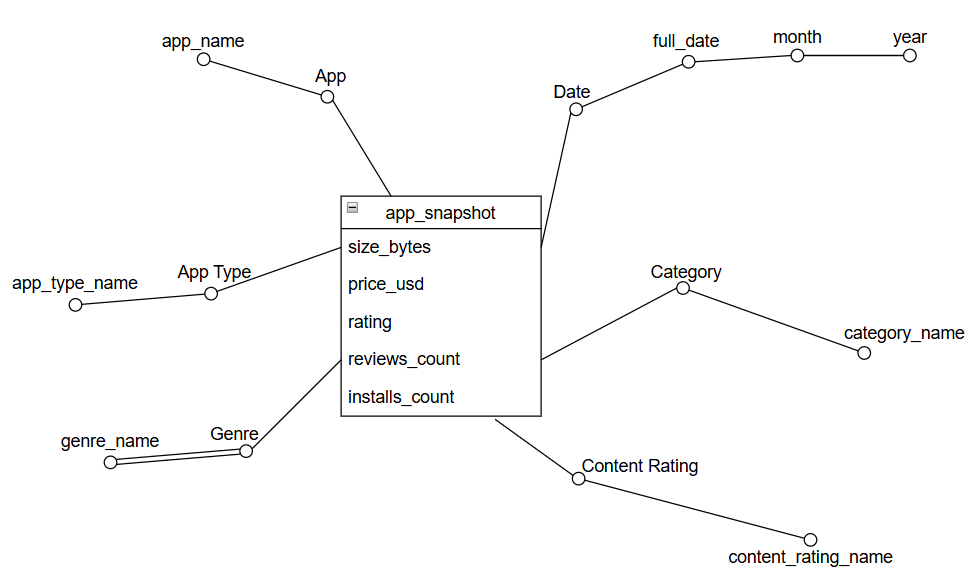
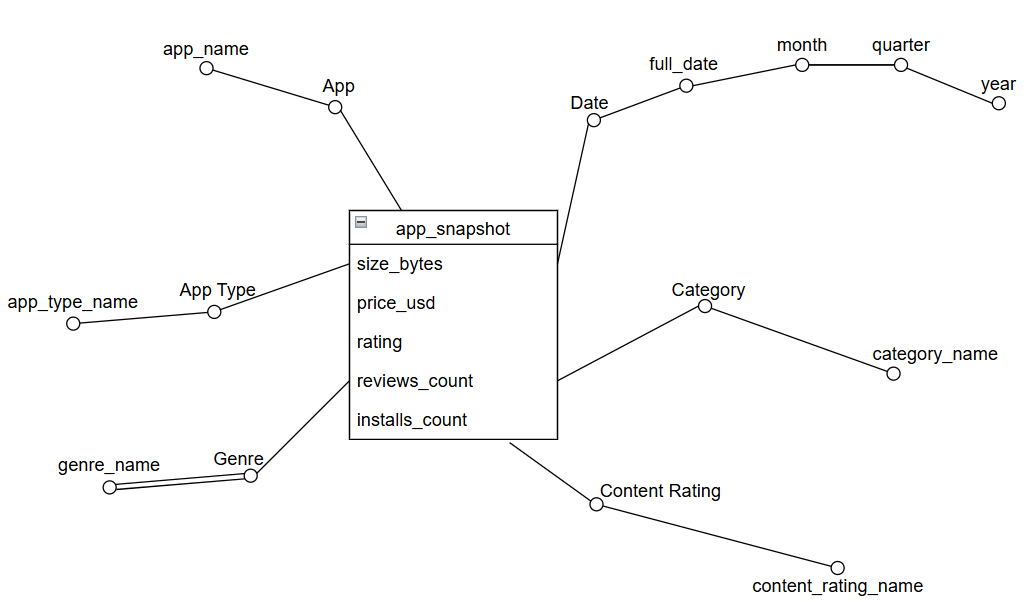
Update README.md

diff --git a/reports/phase1_phase2_report.tex b/reports/phase1_phase2_report.tex
@@ -14,14 +14,16 @@
 \usepackage{float}
 \usepackage{amsmath}
 \usepackage{caption}
-
-\hypersetup{
-    colorlinks=true,
-    linkcolor=black,
-    urlcolor=blue,
-    citecolor=black
-}
-
+\usepackage[colorlinks=true,
+            linkcolor=blue,
+            citecolor=blue,
+            urlcolor=blue]{hyperref}
+% \hypersetup{
+%     colorlinks=true,
+%     linkcolor=black,
+%     urlcolor=blue,
+%     citecolor=black
+% }
 \captionsetup{font=small}
 \renewcommand{\arraystretch}{1.15}
 
@@ -34,6 +36,8 @@
 
 \begin{document}
 \maketitle
+
+GitHub: \url{https://github.com/quangdangnhat/__DW__googleplaystore__}
 
 \section{Introduction}
 This report presents the first two phases of the Google Play Store data warehouse project. Phase 1 focuses on the conceptual and logical design of the data mart. Starting from the reconciled relational schema, we identify the fact of interest, build and edit the attribute tree, define dimensions and measures, derive the Dimensional Fact Model (DFM) schema, and translate the conceptual schema into a logical star schema for ROLAP analysis.
@@ -63,7 +67,7 @@ The goal of the data mart is to support exploratory and aggregate analysis of th
     \item how genre-based analyses can be performed despite the many-to-many relationship with app snapshots.
 \end{itemize}
 
-These requirements motivate the choice of a snapshot-oriented fact and a star schema suitable for OLAP-style aggregation and slicing.
+These requirements motivate the choice of a snapshot-oriented fact and a star schema suitable for OLAP-style aggregation and slicing. These requirements also support the Phase 3 visualization story, which investigates whether Google Play Store reach is driven more by perfect ratings or by a combination of good-enough quality, free access, category position, and recent updates.
 
 \section{Reconciled Source Schema and Data-Driven Design Approach}
 
@@ -145,11 +149,11 @@ The technical identifiers of related tables are replaced by business dimensions 
 \end{itemize}
 
 \paragraph{Time dimension.}
-The business attribute \texttt{last\_updated\_date} is transformed into the temporal dimension \texttt{Date}. The day-level member is the full calendar date, which can be rolled up to month and year:
+The business attribute \texttt{last\_updated\_date} is transformed into the temporal dimension \texttt{Date}. The day-level member is the full calendar date, which can be rolled up to month, quarter and year:
 \[
-\texttt{full\_date} \rightarrow \texttt{month} \rightarrow \texttt{year}
+\texttt{full\_date} \rightarrow \texttt{month} \rightarrow \texttt{quarter} \rightarrow \texttt{year}
 \]
-In the logical schema, the attribute \texttt{day} is stored as the day-of-month descriptor of \texttt{full\_date}; it is not interpreted as an independent determinant of month and year.
+In the logical schema, the attribute \texttt{day} is stored as the day-of-month descriptor of \texttt{full\_date}; it is not interpreted as an independent determinant of month and year. The quarter level is included to support OLAP roll-up and drill-down operations in the Phase 3 dashboards.
 
 \paragraph{Advanced construct.}
 The association with \texttt{Genre} is reintroduced at the conceptual level as a multiple arc. This modeling choice is required because the reconciled schema shows that the same app snapshot may be associated with more than one genre.
@@ -185,7 +189,7 @@ The final conceptual schema is centered on the fact \texttt{APP\_SNAPSHOT}. The 
     \item \texttt{Category} $\rightarrow$ \texttt{category\_name}
     \item \texttt{App Type} $\rightarrow$ \texttt{app\_type\_name}
     \item \texttt{Content Rating} $\rightarrow$ \texttt{content\_rating\_name}
-    \item \texttt{Date}: \texttt{full\_date} $\rightarrow$ \texttt{month} $\rightarrow$ \texttt{year}; the logical attribute \texttt{day} represents the day of month
+    \item \texttt{Date}: \texttt{full\_date} $\rightarrow$ \texttt{month}  $\rightarrow$ \texttt{quarter} $\rightarrow$ \texttt{year}; the logical attribute \texttt{day} represents the day of month
 \end{itemize}
 
 The measures are \texttt{rating}, \texttt{reviews\_count}, \texttt{installs\_count}, \texttt{price\_usd}, and \texttt{size\_bytes}.
@@ -296,6 +300,7 @@ Table~\ref{tab:measure_glossary} provides a glossary of the measures used in the
     \centering
     \includegraphics[width=0.9\textwidth]{./figures/starSchema.png}
     \caption{Implemented data warehouse star schema in Supabase PostgreSQL. The schema extends the logical star schema with data quality flags and a weighted bridge table for the many-to-many relationship with Genre.}
+
     \label{fig:logical_schema}
 \end{figure}
 
@@ -527,7 +532,7 @@ The data warehouse therefore preserves the clean-layer grain, maintains referent
 \subsection{Analysis Views for OLAP and BI}
 To support correct analysis and reduce the risk of wrong aggregations, several views are created in the data warehouse schema. The most important one is \texttt{dw.v\_genre\_fractional\_analysis}, which exposes weighted measures such as \texttt{weighted\_reviews\_count}, \texttt{weighted\_installs\_count}, and \texttt{weighted\_snapshot\_count}. These fields should be used when aggregating by \texttt{Genre}.
 
-The view \texttt{dw.v\_genre\_membership\_analysis} supports tag-based analysis, where one snapshot may legitimately be counted under more than one genre. In that case, totals across genres are not expected to match the total number of snapshots. This distinction is explicitly documented to prevent double counting in later dashboards.
+The view \texttt{dw.v\_genre\_membership\_analysis} supports tag-based analysis, where one snapshot may legitimately be counted under more than one genre. In that case, totals across genres are not expected to match the total number of snapshots. This distinction is explicitly documented to prevent double counting in later dashboards. For Phase 3, the main DW analysis views are exported as BI-ready CSV files for Tableau Public, including \texttt{v\_fact\_app\_snapshot\_enriched\_rows.csv} and \texttt{v\_genre\_weighted\_kpis\_rows.csv}. The Tableau genre dashboard uses the exported \texttt{v\_genre\_weighted\_kpis\_rows.csv} file, derived from the weighted genre KPI view, to avoid double-counting multi-genre app snapshots.
 
 
 \section{Final Result of Phase 1 and Phase 2}

diff --git a/README.md b/README.md
@@ -5,17 +5,20 @@
 
 
 > Transforming Google Play Store raw data into a verified, auditable, OLAP-ready data warehouse.
+> Repository scope: this repository contains the database design, SQL implementation,
+> data quality, cleaning, audit, ETL, and verification artifacts for Phase 1 and Phase 2.
+> Phase 3 Tableau dashboards and presentation materials are maintained separately.
 
 This project builds a data warehouse for the Google Play Store dataset. It starts from the original CSV, loads it into a raw landing table, transforms it into a reconciled PostgreSQL schema, performs baseline data quality assessment, creates a conservative cleaning and audit layer, and finally loads a dimensional star schema for OLAP-style analysis.
 
 The analytical grain is **one app snapshot**: one row in `reconciled.app_snapshot` / `dw.fact_app_snapshot` represents one loaded Google Play Store source row for one application snapshot.
+
 
 ---
 
 ## 🧰 Tech Stack
 
 - **Supabase / PostgreSQL**
-- **Python**, optional for analysis/report support
 - **LaTeX**, for report writing
 
 ---
@@ -41,7 +44,7 @@ Source file:
 
 ## 🧭 SQL Pipeline Overview
 
-### 🧱 Phase 1 — Reconciled Schema and Source ETL
+### 🧱 Implementation Stage A — Raw and Reconciled Database Build
 
 | Order | File | Purpose |
 |---:|---|---|
@@ -52,7 +55,7 @@ Source file:
 | 5 | `sql/04_genre_etl.sql` | Extracts valid genres from the multi-valued `Genres` source column and loads the many-to-many bridge `reconciled.app_snapshot_genre`. |
 | 6 | `sql/verifyPhase1.sql` | Verification script for Phase 1 counts, malformed row exclusion, FK nulls, measure validity, genre bridge integrity, and expected Phase 1 evidence. |
 
-### 🧼 Phase 2 — DQA, Cleaning, and DW Loading
+### 🧼 Implementation Stage B — DQA, Cleaning, Audit, and DW Loading
 
 | Order | File | Purpose |
 |---:|---|---|